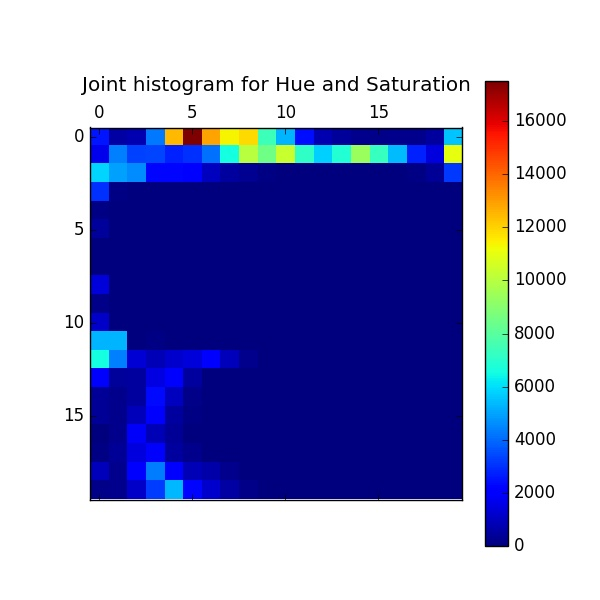
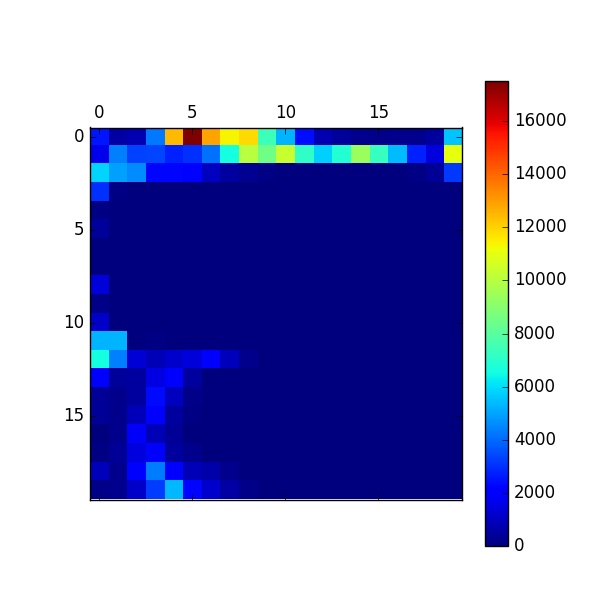
Add graph generator for joint histogram

Changed region(s): [[0.12, 0.12, 0.78, 0.15]]

diff --git a/src/script/graph_generator.py b/src/script/graph_generator.py
@@ -83,7 +83,7 @@ def graph_joint_histogram():
     ch = ch.reshape((20, 20))
 
     cax = plt.matshow(ch, interpolation='nearest')
-    plt.title("Joint histogram for Hue and Saturation", y=1.08)
+    # plt.title("Joint histogram for Hue and Saturation", y=1.08)
 
     plt.colorbar(cax)
     plt.savefig(const.PATH_TO_IMAGE_DIR + "/joint_histogram.jpg")
